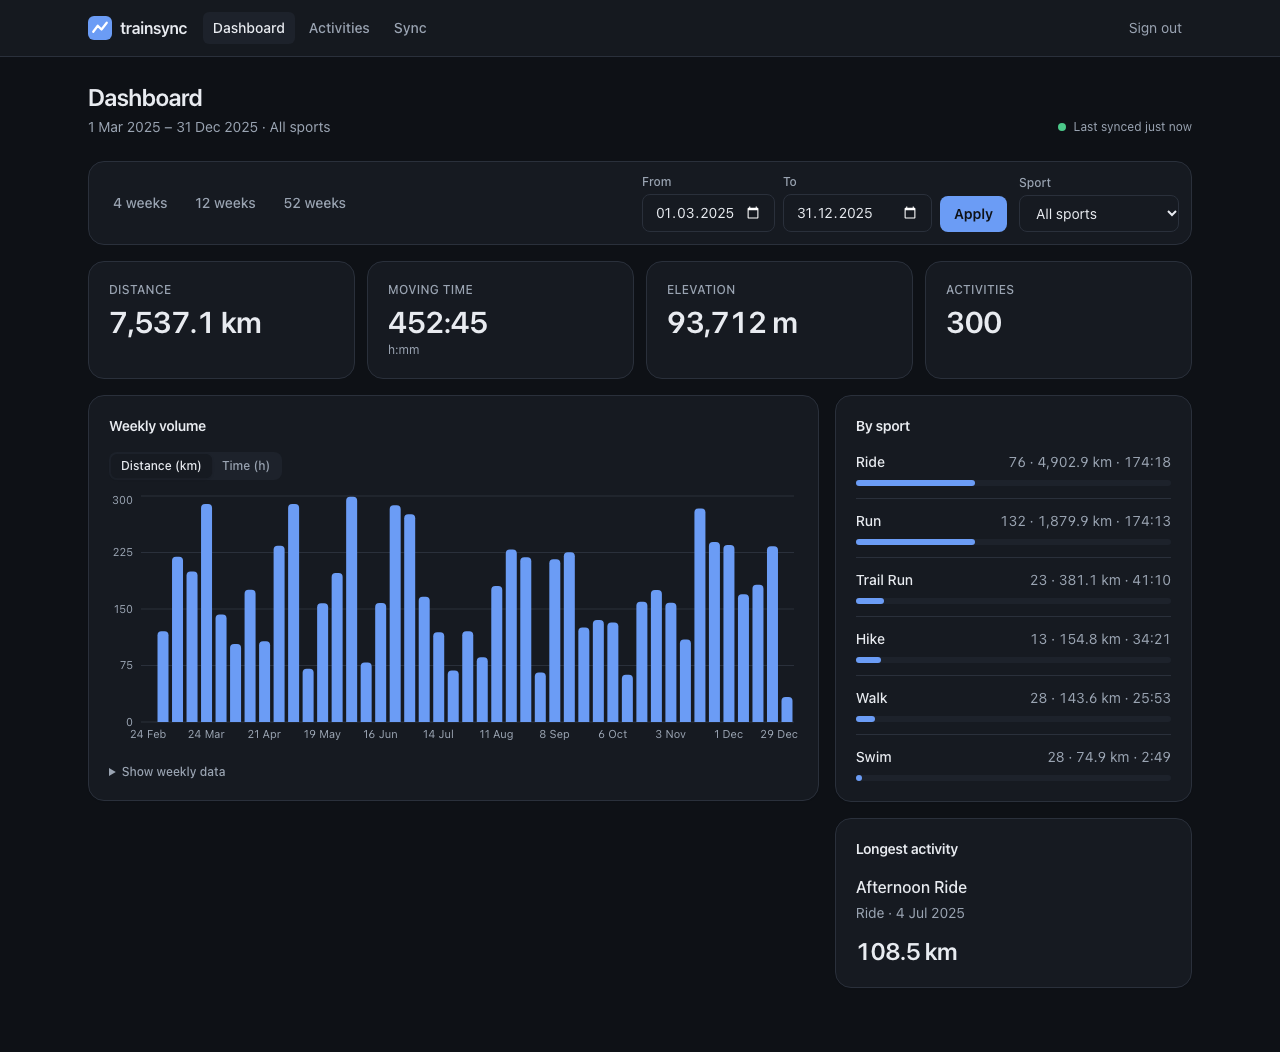
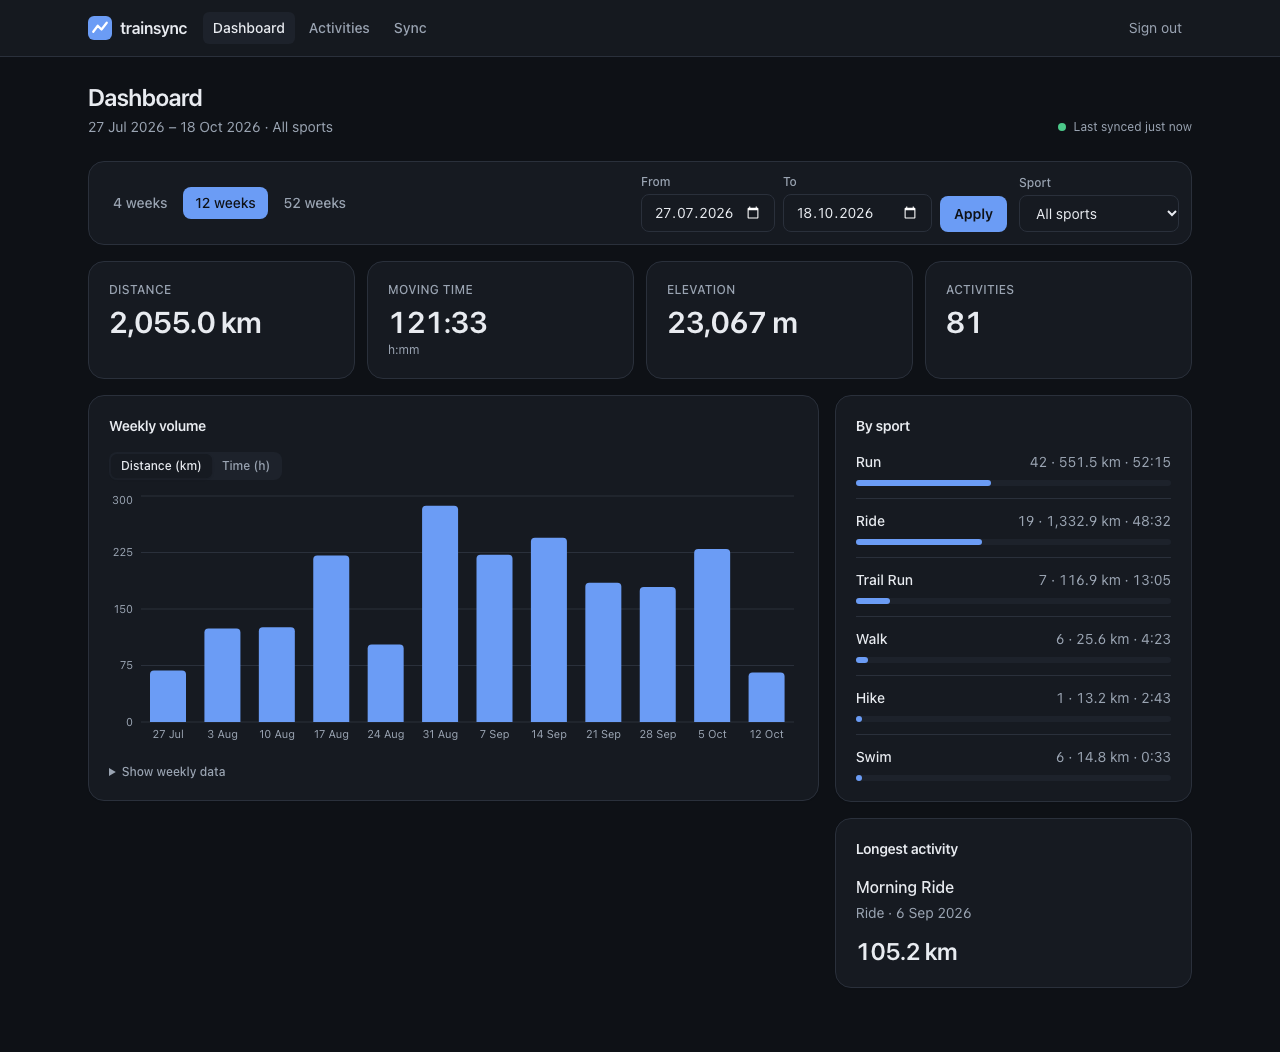
seed fake strava relative to now, e2e on the default range

diff --git a/web/e2e/dashboard.spec.ts b/web/e2e/dashboard.spec.ts
@@ -8,8 +8,6 @@ import type { StatsSummary, WeeklyStats } from "../lib/types";
 const API_URL = process.env.E2E_API_URL ?? "http://localhost:8000";
 const API_KEY = process.env.E2E_API_KEY ?? "dev-key-1";
 const PASSWORD = process.env.E2E_PASSWORD ?? "dev-only-dashboard-password";
-// fake_strava's seeded history ends on 2026-01-01; this range holds most of it.
-const RANGE = { from: "2025-03-01", to: "2025-12-31" };
 
 function screenshotPath(name: string): string {
   return fileURLToPath(new URL(`../../docs/img/${name}.png`, import.meta.url));
@@ -55,19 +53,24 @@ test("log in, connect Strava, backfill, dashboard matches the API, activity, syn
   });
 
   await test.step("dashboard KPIs equal /v1/stats/summary and the chart equals /v1/stats/weekly", async () => {
-    await page.goto(`/?from=${RANGE.from}&to=${RANGE.to}`);
+    // The default range (last 12 weeks): fake_strava seeds the year before "now", so it has data.
+    await page.goto("/");
     const kpis = page.getByTestId("kpis");
-    await expect(kpis).toHaveAttribute("data-from", RANGE.from);
-    await expect(kpis).toHaveAttribute("data-to", RANGE.to);
+    const range = {
+      from: (await kpis.getAttribute("data-from")) ?? "",
+      to: (await kpis.getAttribute("data-to")) ?? "",
+    };
+    expect(range.from).toMatch(/^\d{4}-\d{2}-\d{2}$/);
+    expect(range.to).toMatch(/^\d{4}-\d{2}-\d{2}$/);
 
-    const summary = await apiGet<StatsSummary>(request, "/v1/stats/summary", RANGE);
+    const summary = await apiGet<StatsSummary>(request, "/v1/stats/summary", range);
     expect(summary.totals.count).toBeGreaterThan(0);
     expect(await tile(page, "Distance")).toBe(formatKm(summary.totals.distance_m, 1));
     expect(await tile(page, "Moving time")).toBe(formatDuration(summary.totals.moving_time_s));
     expect(await tile(page, "Elevation")).toBe(formatMeters(summary.totals.elevation_gain_m));
     expect(await tile(page, "Activities")).toBe(formatCount(summary.totals.count));
 
-    const weekly = await apiGet<WeeklyStats>(request, "/v1/stats/weekly", RANGE);
+    const weekly = await apiGet<WeeklyStats>(request, "/v1/stats/weekly", range);
     const rows = page.getByTestId("weekly-table").locator("tbody tr");
     await expect(rows).toHaveCount(weekly.weeks.length);
     const shown = await rows.evaluateAll((trs) =>

diff --git a/tests/unit/test_fake_strava.py b/tests/unit/test_fake_strava.py
@@ -8,7 +8,7 @@ import pytest
 from fake_strava.app import create_app
 from fake_strava.clock import FakeClock
 from fake_strava.config import FakeStravaConfig
-from fake_strava.seed import DEFAULT_ATHLETE_ID, SEED_END, seed_activities
+from fake_strava.seed import DEFAULT_ATHLETE_ID, SEED_WINDOW, seed_activities
 from fake_strava.state import FakeStravaState
 from tests.conftest import FAKE_STRAVA_BASE_URL, fake_strava_login
 
@@ -260,13 +260,35 @@ async def test_get_activity_and_404(
     assert missing.json()["message"] == "Record Not Found"
 
 
+SEED_NOW = datetime(2026, 10, 17, 12, 0, tzinfo=UTC)
+
+
 async def test_seed_is_deterministic() -> None:
-    first = [a.to_json() for a in seed_activities(DEFAULT_ATHLETE_ID, 300, rng_seed=7)]
-    again = [a.to_json() for a in seed_activities(DEFAULT_ATHLETE_ID, 300, rng_seed=7)]
-    other = [a.to_json() for a in seed_activities(DEFAULT_ATHLETE_ID, 300, rng_seed=8)]
+    first = [a.to_json() for a in seed_activities(DEFAULT_ATHLETE_ID, 300, 7, SEED_NOW)]
+    again = [a.to_json() for a in seed_activities(DEFAULT_ATHLETE_ID, 300, 7, SEED_NOW)]
+    other = [a.to_json() for a in seed_activities(DEFAULT_ATHLETE_ID, 300, 8, SEED_NOW)]
     assert first == again
     assert first != other
-    assert all(datetime.fromisoformat(a["start_date"]) < SEED_END for a in first)
+
+
+@pytest.mark.parametrize("count", [1, 300, 5000])
+async def test_seed_covers_the_year_before_the_clock(count: int) -> None:
+    activities = seed_activities(DEFAULT_ATHLETE_ID, count, 7, SEED_NOW)
+    starts = [a.start_date for a in activities]
+    assert len(starts) == count
+    assert all(SEED_NOW - SEED_WINDOW <= start < SEED_NOW for start in starts)
+    assert starts == sorted(starts)
+    assert [a.id for a in activities] == sorted(a.id for a in activities)
+
+
+async def test_seed_moves_with_the_clock() -> None:
+    today = seed_activities(DEFAULT_ATHLETE_ID, 300, 7, SEED_NOW)
+    tomorrow = seed_activities(DEFAULT_ATHLETE_ID, 300, 7, SEED_NOW + timedelta(days=1))
+    assert [b.start_date - a.start_date for a, b in zip(today, tomorrow, strict=True)] == [
+        timedelta(days=1)
+    ] * 300
+    # The newest activity is recent, so "the last 12 weeks" always has data.
+    assert SEED_NOW - today[-1].start_date < timedelta(days=2)
 
 
 async def test_two_apps_with_same_seed_serve_identical_activities(fake_clock: FakeClock) -> None:

diff --git a/fake_strava/seed.py b/fake_strava/seed.py
@@ -5,8 +5,8 @@ from dataclasses import dataclass, field
 from datetime import UTC, datetime, timedelta
 from typing import Any
 
-# Seeded history ends here, so the data does not depend on when the fake starts.
-SEED_END = datetime(2026, 1, 1, tzinfo=UTC)
+# Seeded history covers the year before the fake's clock, so a dashboard's default range has data.
+SEED_WINDOW = timedelta(days=365)
 DEFAULT_ATHLETE_ID = 1001
 FIRST_ACTIVITY_ID = 10_000_000_000
 # Each athlete gets its own id range so ids never collide.
@@ -91,15 +91,26 @@ def first_activity_id(athlete_index: int) -> int:
 
 
 def seed_activities(
-    athlete_id: int, count: int, rng_seed: int, first_id: int = FIRST_ACTIVITY_ID
+    athlete_id: int,
+    count: int,
+    rng_seed: int,
+    end: datetime,
+    first_id: int = FIRST_ACTIVITY_ID,
 ) -> list[FakeActivity]:
-    """`count` activities before SEED_END, oldest first; ids grow with start_date."""
+    """`count` activities in the SEED_WINDOW before `end`, oldest first; ids grow with start_date.
+
+    Deterministic for a given `rng_seed` and `end`. Gaps of 8-40 h between activities, squeezed
+    to fit the window when `count` is large.
+    """
     rng = random.Random(f"activities:{rng_seed}:{athlete_id}")
+    gaps = [rng.randint(8 * 3600, 40 * 3600) for _ in range(count)]
+    scale = min(1.0, SEED_WINDOW.total_seconds() / sum(gaps)) if gaps else 1.0
+    end = end.astimezone(UTC).replace(microsecond=0)
     starts: list[datetime] = []
-    cursor = SEED_END
-    for _ in range(count):
-        cursor -= timedelta(minutes=rng.randint(8 * 60, 40 * 60))
-        starts.append(cursor)
+    elapsed = 0
+    for gap in gaps:
+        elapsed += gap
+        starts.append(end - timedelta(seconds=int(elapsed * scale)))
     starts.reverse()
     return [_make_activity(rng, athlete_id, first_id + i, start) for i, start in enumerate(starts)]
 

diff --git a/fake_strava/state.py b/fake_strava/state.py
@@ -105,9 +105,10 @@ class FakeStravaState:
             a.id: a for a in seed_athletes(cfg.athletes, cfg.rng_seed)
         }
         self.activities: dict[int, FakeActivity] = {}
+        seed_end = self.clock.now()
         for index, athlete_id in enumerate(self.athletes):
             for activity in seed_activities(
-                athlete_id, cfg.seed_activities, cfg.rng_seed, first_activity_id(index)
+                athlete_id, cfg.seed_activities, cfg.rng_seed, seed_end, first_activity_id(index)
             ):
                 self.activities[activity.id] = activity
         self.codes: dict[str, AuthCode] = {}

diff --git a/docs/phases/phase-5-web-and-bot.md b/docs/phases/phase-5-web-and-bot.md
@@ -32,7 +32,7 @@ Phase criteria:
 | `make verify` and `make web-verify` green | Both pass locally on the merged `phase-5` tree on 2026-10-18: `make verify` (lint, mypy strict, unit + integration tests, branch coverage 97% ≥ 85%) and `make web-verify` (eslint, `tsc`, vitest, `next build`, `check-bundle`). Also green the same day: `make test-fault` (12 tests), `make compose-smoke`, `make web-e2e`, `make audit` and `pnpm audit --prod` (no known vulnerabilities). |
 | CI runs both | `.github/workflows/ci.yml` defines a `web` job (`make web-verify`) and an `e2e` job (`make web-e2e`, needs `compose`) next to `verify`, `audit`, `fault`, `docker` and `compose`. **These jobs have not run in CI yet**: the branch has not been pushed. They pass locally (above). A green CI run is pending the owner's push and PR. |
 | The API key never reaches the browser (client bundles and responses) | Bundles: `web/scripts/check-bundle.mjs`, run by `make web-verify` after a build with canary values for `TRAINSYNC_API_KEY`, `DASHBOARD_PASSWORD` and `DASHBOARD_SESSION_SECRET`; it fails if any of them appears under `.next/static` or `public/`. Responses: `web/tests/bff.test.ts` ("never echoes the API key in responses", "maps validation errors and 401s without leaking details"); `web/e2e/dashboard.spec.ts` step "the browser never sees the API key" (BFF response and dashboard HTML); `scripts/compose_smoke.sh` (BFF summary must not contain `dev-key-1`). ADR 0011 |
-| Dashboard numbers match `GET /v1/stats/weekly` for the same range (e2e) | `web/e2e/dashboard.spec.ts` step "dashboard KPIs equal /v1/stats/summary and the chart equals /v1/stats/weekly": for 2025-03-01 – 2025-12-31 the KPI tiles equal `/v1/stats/summary`, every weekly row (week start, count, distance) equals `/v1/stats/weekly`, and the weekly counts sum to the summary count |
+| Dashboard numbers match `GET /v1/stats/weekly` for the same range (e2e) | `web/e2e/dashboard.spec.ts` step "dashboard KPIs equal /v1/stats/summary and the chart equals /v1/stats/weekly": for the default range (last 12 weeks; fake_strava seeds the year before its clock) the KPI tiles equal `/v1/stats/summary`, every weekly row (week start, count, distance) equals `/v1/stats/weekly`, and the weekly counts sum to the summary count |
 | Bot replies only to allowlisted chats | `tests/unit/test_bot_handlers.py::test_allowlisted_chat_gets_the_reply_others_get_nothing`, `::test_poller_replies_to_allowlisted_updates_only_and_advances_offset` |
 | A new activity produces exactly one notification even if the webhook is delivered twice | `tests/integration/test_notifications.py::test_duplicate_webhook_delivery_sends_one_notification`; `tests/fault/test_telegram_down.py::test_telegram_down_then_back_sends_exactly_one_message`. ADR 0012 |
 | Compose starts `web` and `bot`; `make compose-smoke` still passes | `docker-compose.yml` services `web` (:3000) and `bot` (metrics :9101, health-checked); `scripts/compose_smoke.sh` waits for every service to be healthy, then checks the web login gate, the BFF (401 without a session, 405 for POST) and key isolation. Passed on 2026-10-18. |
